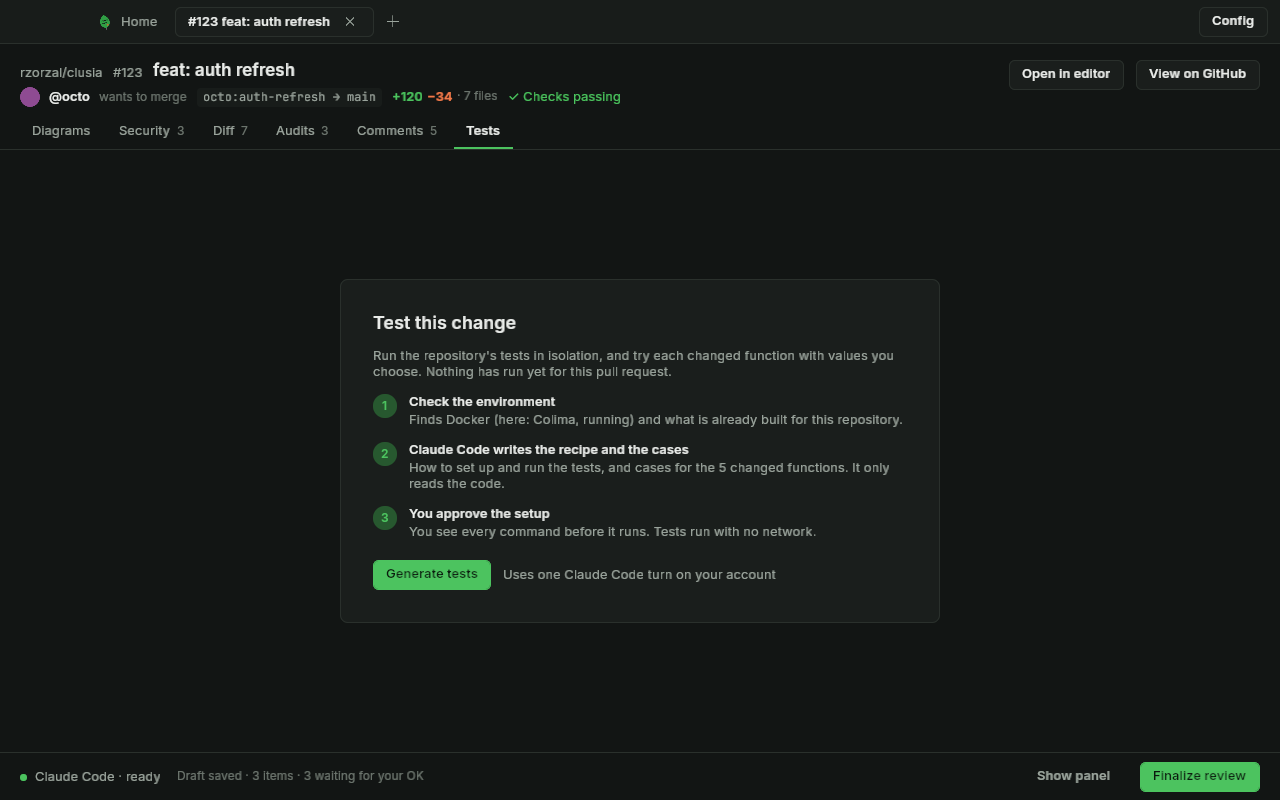
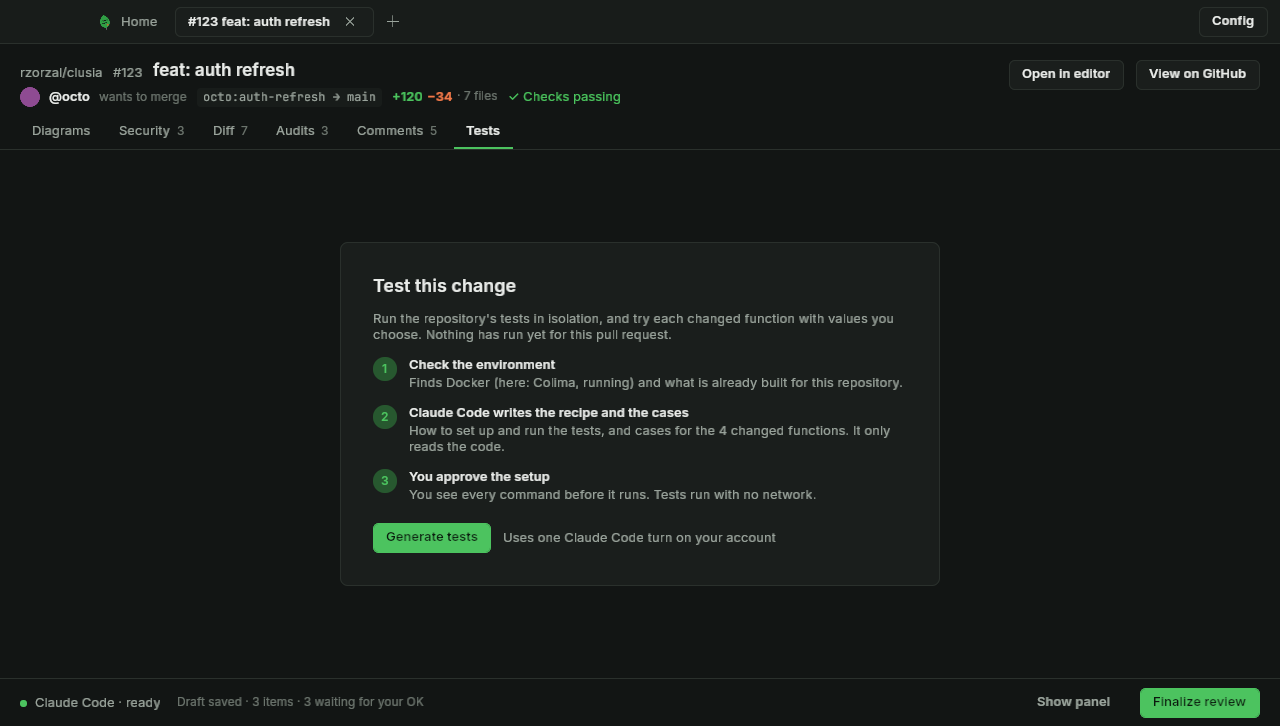
fix(app): the empty card counts only the functions a pack reads
The count behind "cases for the N changed functions" is again the functions with a language pack, so a pull request of docs and a lockfile counts none. The empty scene says 4; the renders doc lists it against the mockup's 5.

diff --git a/crates/clusia-app/src/screens/review/tests_tab/body.rs b/crates/clusia-app/src/screens/review/tests_tab/body.rs
@@ -65,19 +65,22 @@ pub(super) enum Shape {
     },
 }
 
-/// How many changed functions step 2 names: the number over the functions list (the changed
-/// functions and the files with none Clúsia can read) in a loaded view; `None` when none is
-/// known.
+/// How many changed functions the cases of step 2 are for: the ones with a language pack in a
+/// loaded view; `None` when none is known.
 #[derive(Debug, Clone, Copy, PartialEq, Eq)]
 pub(super) struct CasesCopy(pub Option<usize>);
 
-/// The number of changed functions, from the loaded view. A view still being read has no
-/// functions yet, so it counts none.
+/// The number of functions the Generate click writes cases for, from the loaded view. Files no
+/// pack reads are not functions. A view still being read has no functions yet, so it counts
+/// none.
 pub(super) fn cases_copy(view: Option<&FunctionsView>) -> CasesCopy {
-    CasesCopy(
-        view.filter(|v| !v.reading)
-            .map(|v| (v.functions.len() + v.unsupported.len()).min(FUNCTIONS_MAX)),
-    )
+    CasesCopy(view.filter(|v| !v.reading).map(|v| {
+        v.functions
+            .iter()
+            .filter(|f| f.lang.is_some())
+            .count()
+            .min(FUNCTIONS_MAX)
+    }))
 }
 
 /// The line under step 2's title.
@@ -1295,19 +1298,32 @@ mod tests {
     }
 
     #[test]
-    fn the_count_is_the_one_over_the_function_list_and_a_view_still_reading_has_none() {
+    fn the_count_ignores_functions_without_a_pack_and_a_view_still_reading() {
         let mut view =
             crate::fixture::demo_functions(testing::NOW, crate::fixture::DemoFunctions::Mockup);
         assert_eq!(
             cases_copy(Some(&view)),
-            CasesCopy(Some(5)),
-            "four functions and the Swift file, as the list's heading counts them"
+            CasesCopy(Some(4)),
+            "the Swift file has no function"
         );
-        view.unsupported.clear();
-        assert_eq!(cases_copy(Some(&view)), CasesCopy(Some(4)));
+        view.functions[3].lang = None;
+        assert_eq!(
+            cases_copy(Some(&view)),
+            CasesCopy(Some(3)),
+            "one has no pack"
+        );
         view.reading = true;
         assert_eq!(cases_copy(Some(&view)), CasesCopy(None));
         assert_eq!(cases_copy(None), CasesCopy(None));
+    }
+
+    #[test]
+    fn files_no_pack_reads_are_not_counted_as_functions() {
+        let mut view =
+            crate::fixture::demo_functions(testing::NOW, crate::fixture::DemoFunctions::Mockup);
+        view.functions.clear();
+        view.unsupported = vec!["README.md".into(), "Cargo.lock".into()];
+        assert_eq!(cases_copy(Some(&view)), CasesCopy(Some(0)));
     }
 
     #[test]

diff --git a/crates/clusia-app/src/scenes.rs b/crates/clusia-app/src/scenes.rs
@@ -1635,7 +1635,7 @@ mod tests {
                 "Check the environment",
                 "Claude Code writes the recipe and the cases",
                 "Finds Docker (here: Colima, running) and what is already built for this repository.",
-                "How to set up and run the tests, and cases for the 5 changed functions. It only reads the code.",
+                "How to set up and run the tests, and cases for the 4 changed functions. It only reads the code.",
                 "You approve the setup",
                 "Generate tests",
                 "Uses one Claude Code turn on your account",

diff --git a/docs/sp4-m1c-renders.md b/docs/sp4-m1c-renders.md
@@ -28,7 +28,8 @@ Same regions, order, copy, states, pills, the green selected row and the orange 
 ![light](assets/sp4-m1c-tests-empty-light.png)
 ![dark](assets/sp4-m1c-tests-empty-dark.png)
 
-- Steps 1 and 2 read as the mockup: "Finds Docker (here: Colima, running) …" and "cases for the 5 changed functions" (the number over the Functions view's list, the Swift file included).
+- Step 1 reads as the mockup: "Finds Docker (here: Colima, running) …".
+- Step 2 says "cases for the 4 changed functions"; the mockup says 5. Ruled: the mockup counts a Swift file Clúsia does not read, and the count is of the functions with a language pack, the ones Generate tests writes cases for.
 - **Generate tests** is a smaller button than the mockup's.
 
 ## tests-functions-running (no mockup)
